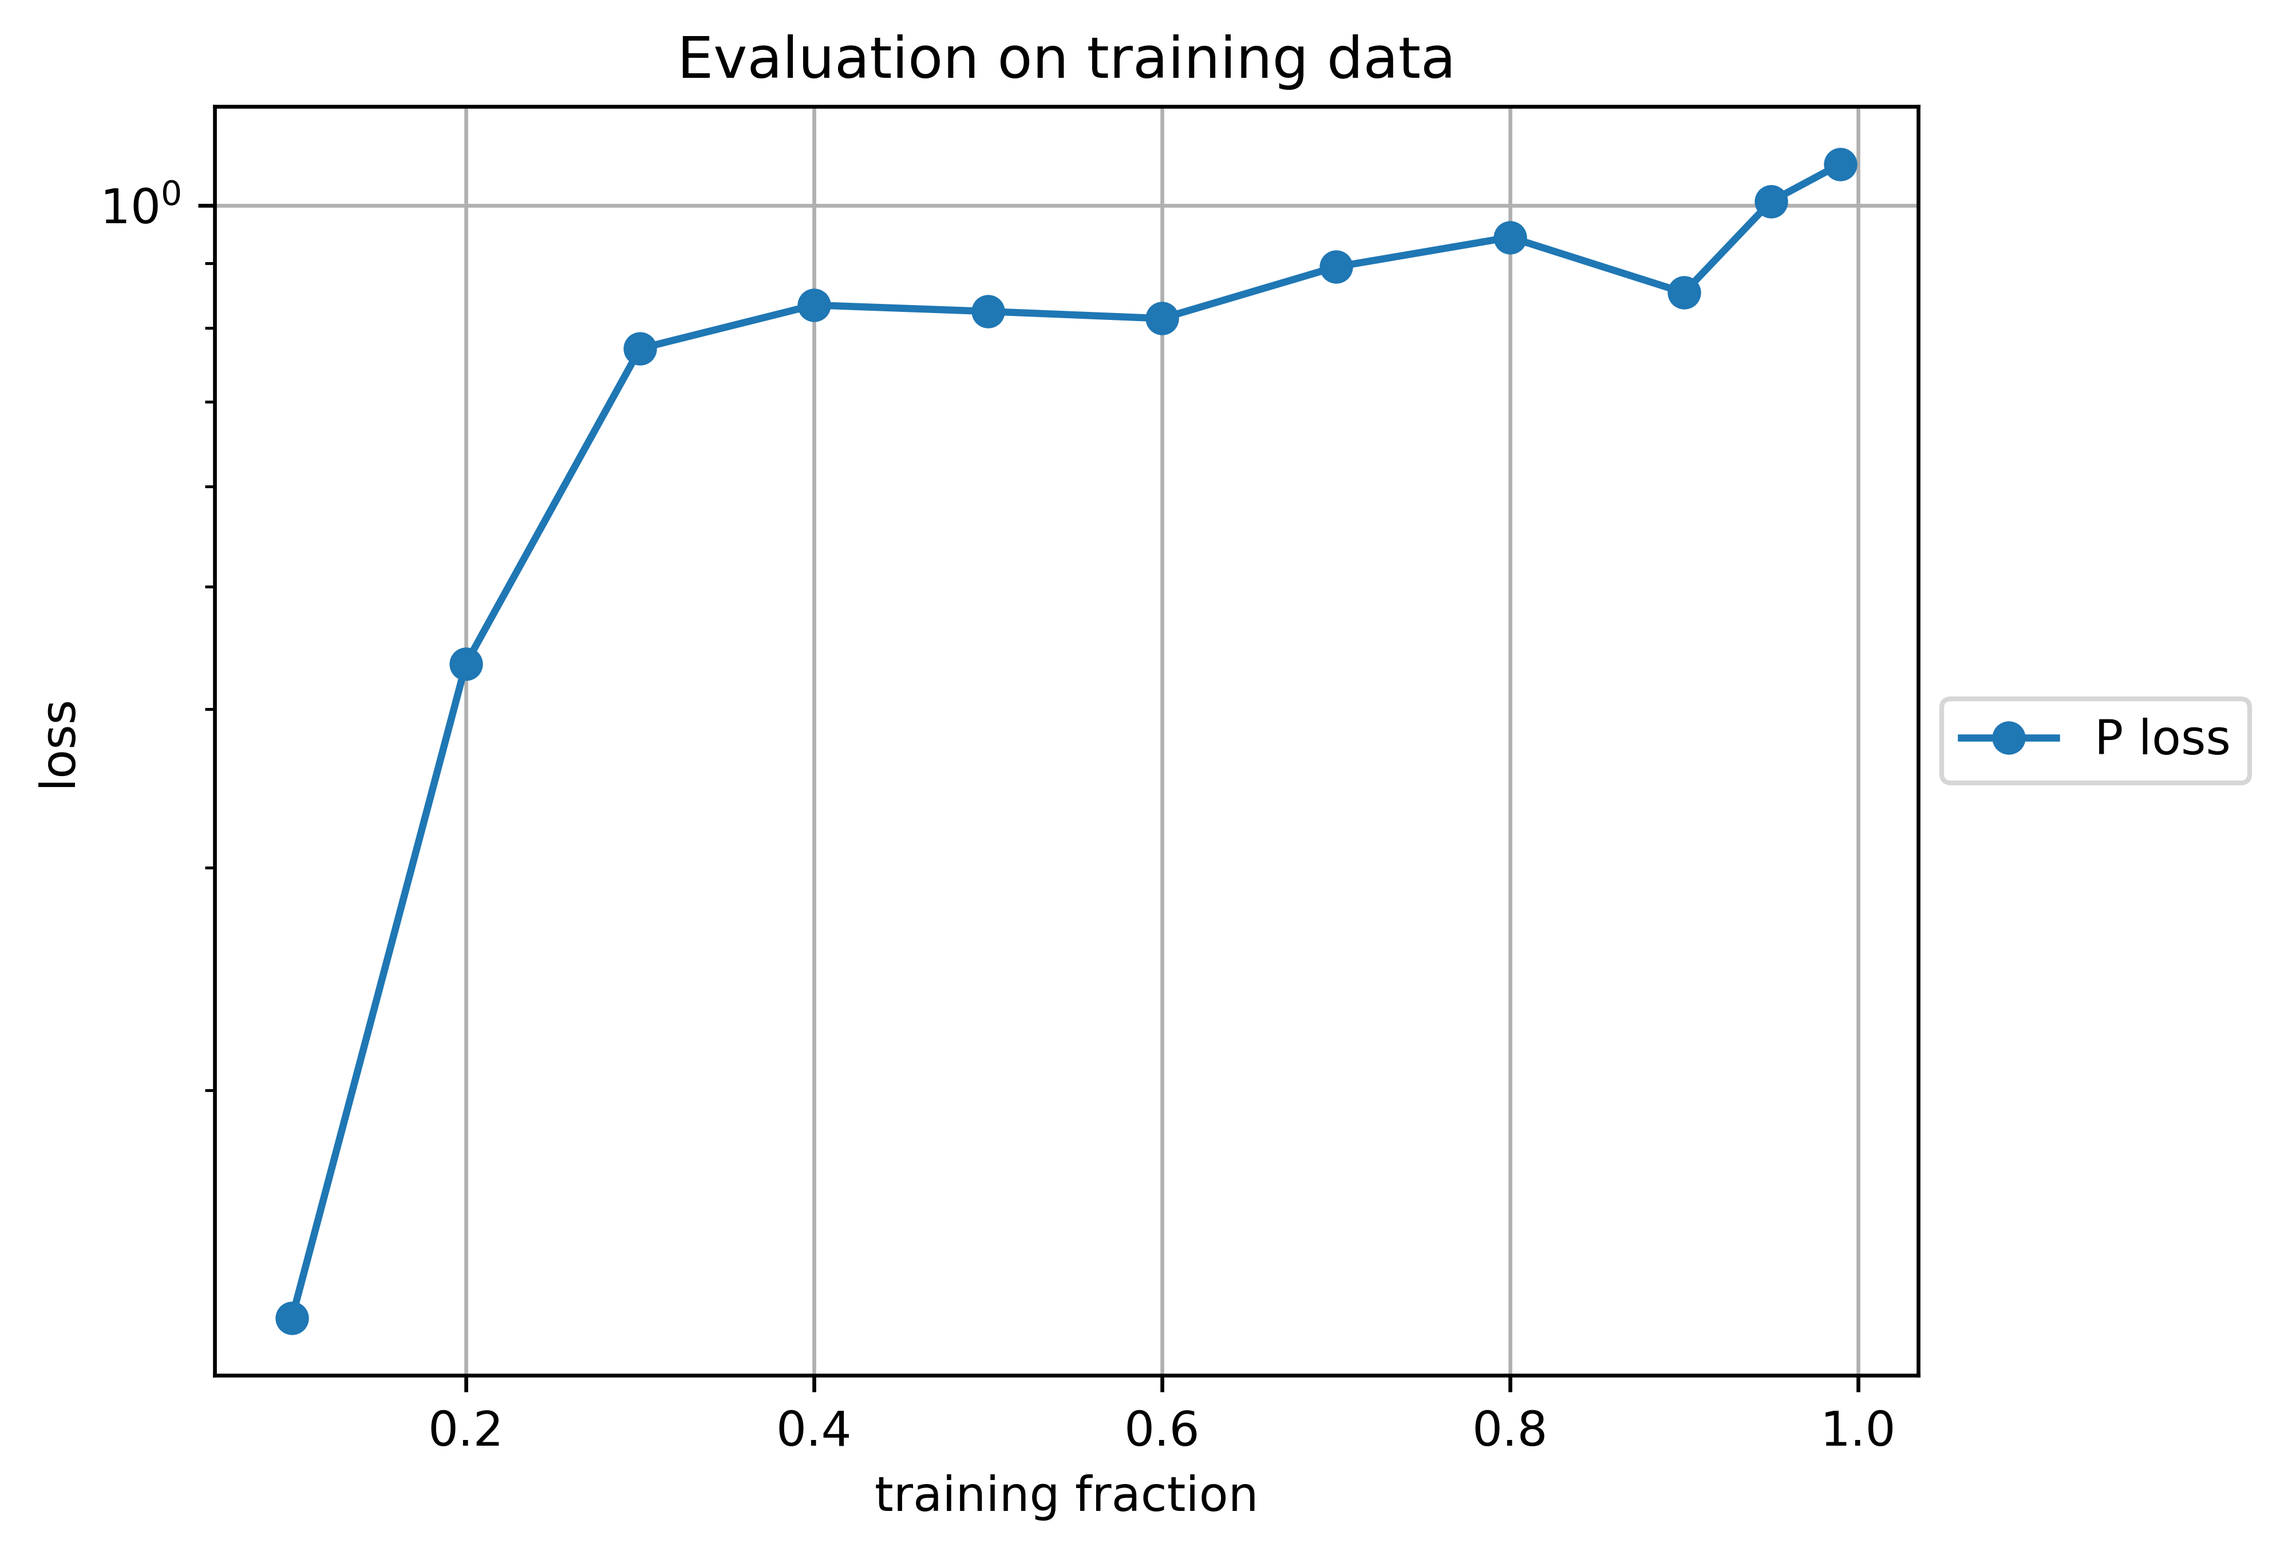
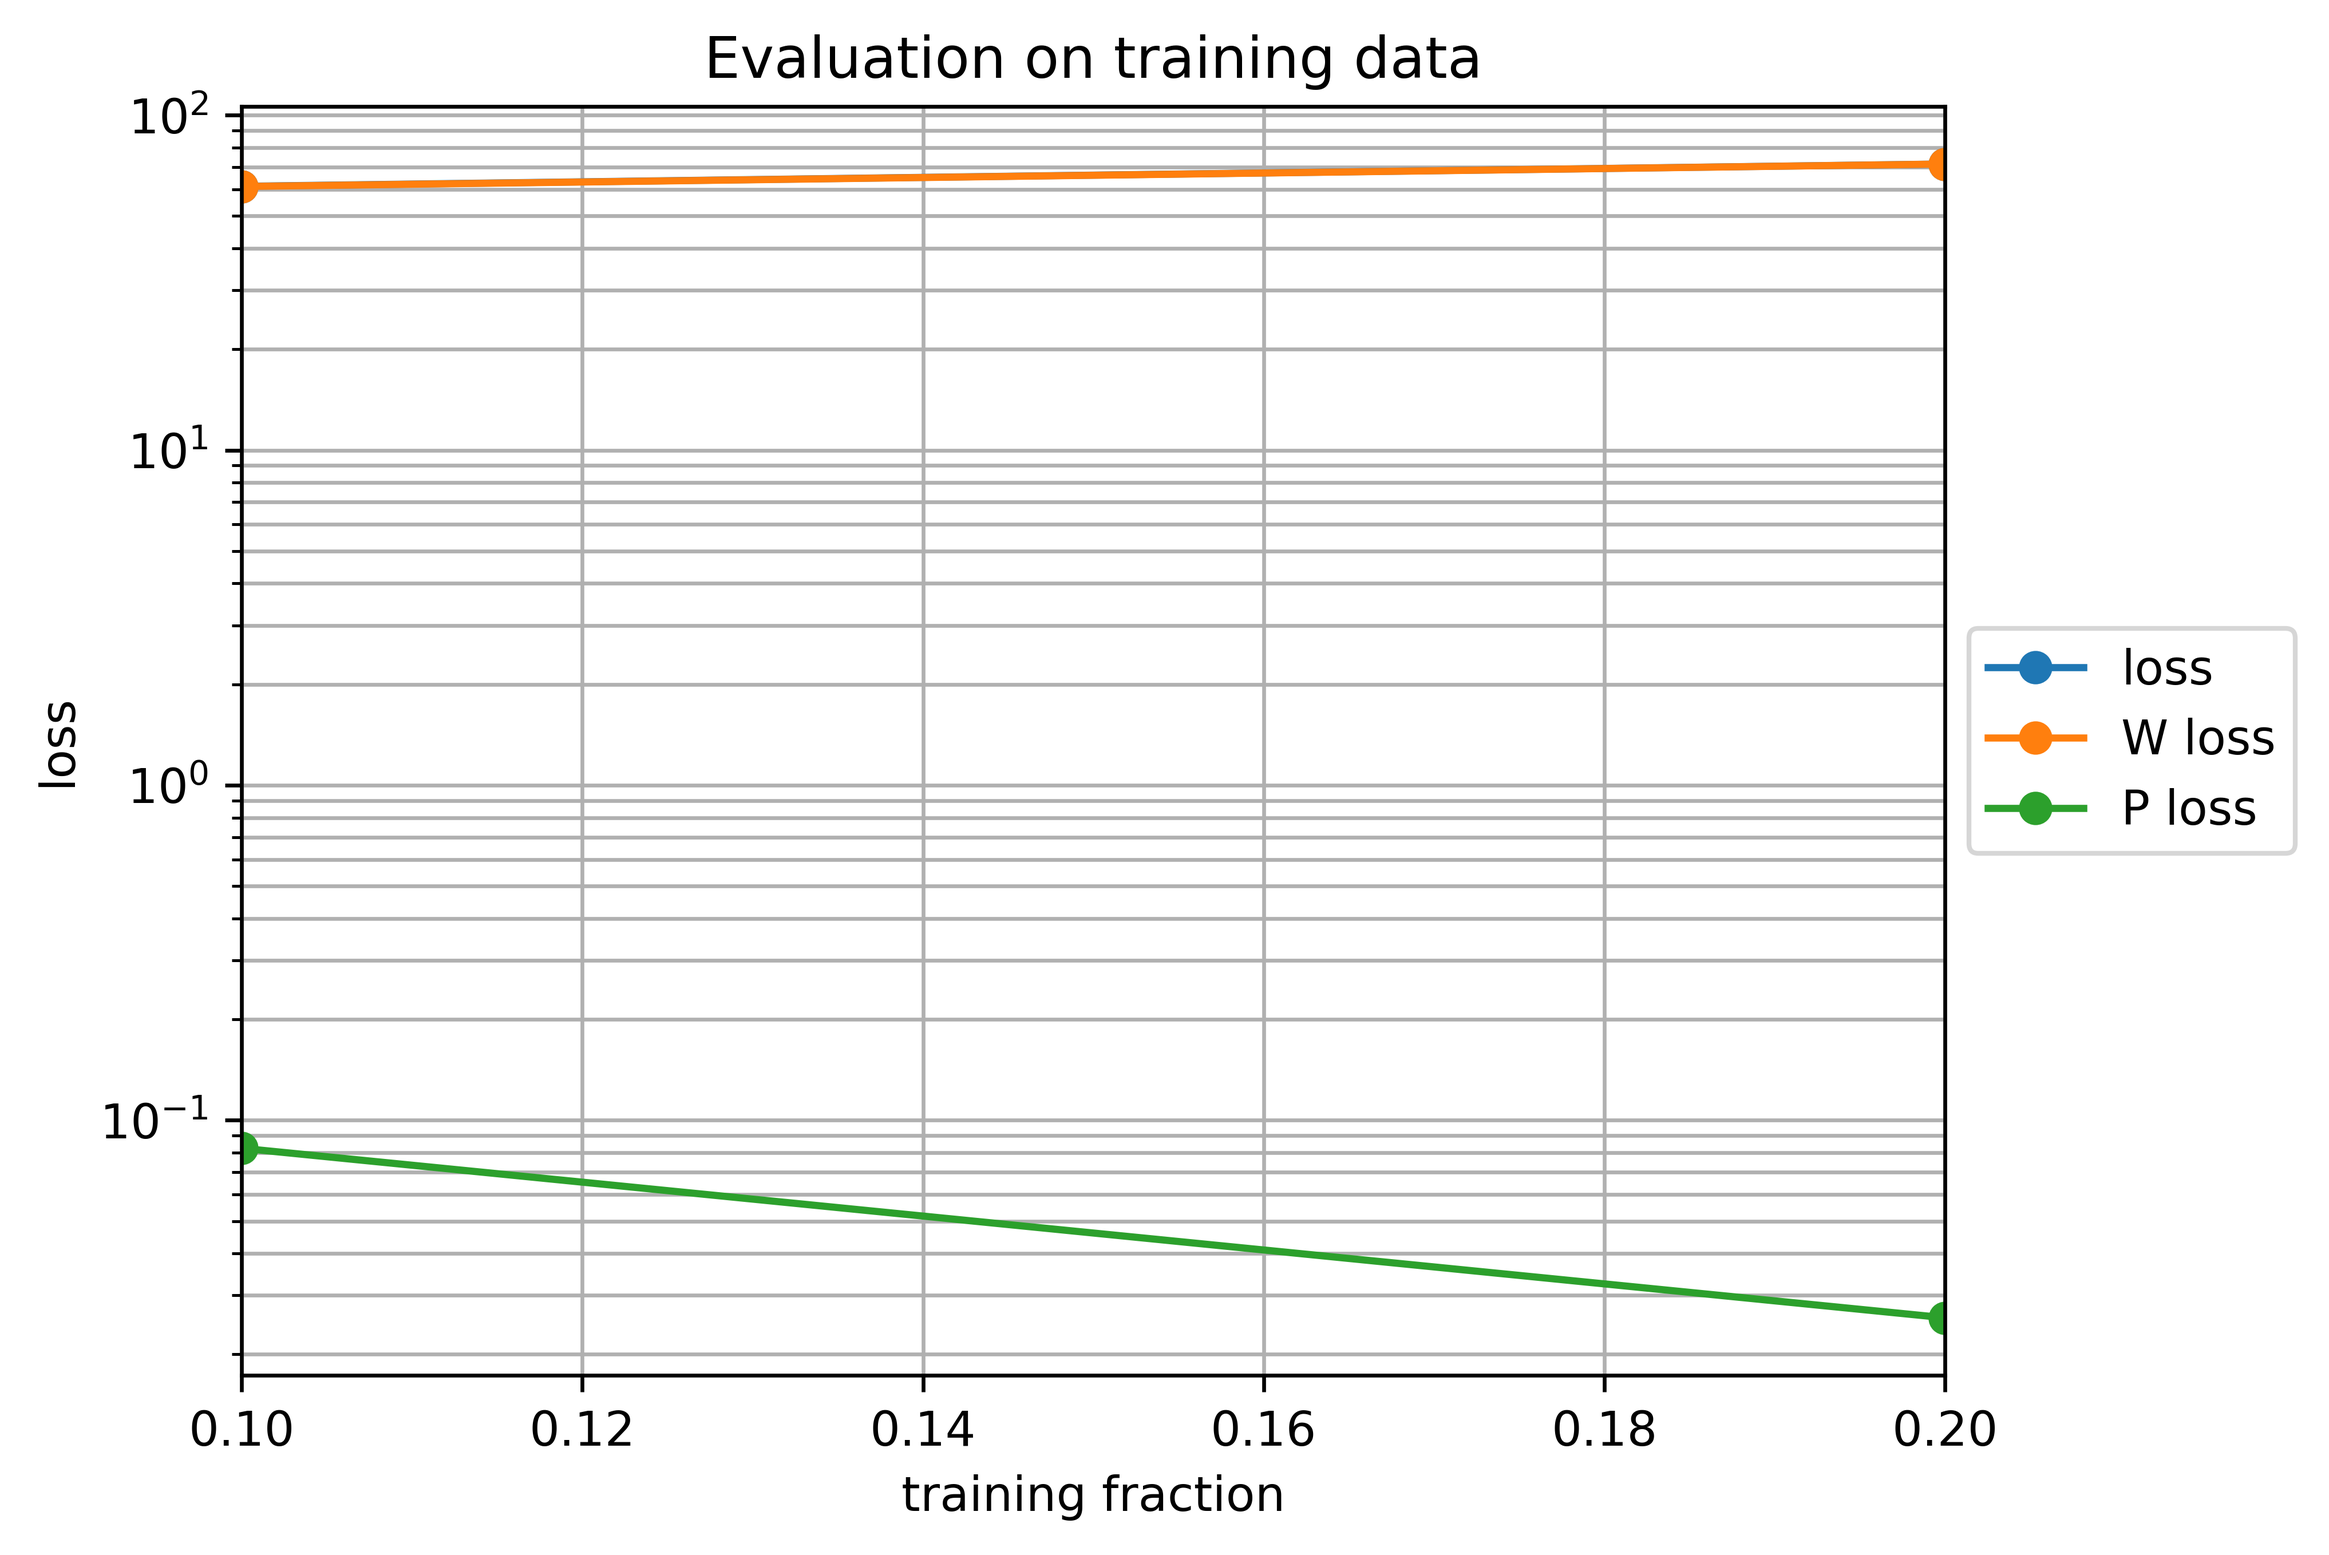
Switching between PhysicsAugmented and Naive by setting t_type
Plots and model selection are guided using if clauses

diff --git a/Task_02/02_hyperelasticity_I/main_concentric_sampling.py b/Task_02/02_hyperelasticity_I/main_concentric_sampling.py
@@ -33,12 +33,13 @@ Training
 
 
 FNUM = 100
-test_train_split = np.array([0.1,0.2,0.3,0.4,0.5,0.6,0.7,0.8,0.9,0.95,0.99])
-#test_train_split = np.array([0.1,0.2])
-JMAX = 5
+#test_train_split = np.array([0.1,0.2,0.3,0.4,0.5,0.6,0.7,0.8,0.9,0.95,0.99])
+test_train_split = np.array([0.1,0.2])
+JMAX = 2
+t_type = 'PhysicsAugmented' # 'Naive'
 
-loss_weights = [0, 1] # only used for physics augmented training
-epochs = 2500
+loss_weights = [1, 1] # only used for physics augmented training
+epochs = 300
 verbose = 0
 
 # initialization
@@ -50,7 +51,7 @@ for i, split in enumerate(test_train_split):
     train_losses_tmp = np.zeros([JMAX,3])
     test_losses_tmp = np.zeros([JMAX,3])
 
-    for j in range(JMAX): 
+    for j in range(JMAX):
         print(f'Model {i * JMAX + (j + 1)}/{test_train_split.size * JMAX}')
         # create training and test split
         fnum = tf.random.shuffle(np.arange(1,FNUM + 1))
@@ -60,10 +61,12 @@ for i, split in enumerate(test_train_split):
         train_paths = ld.generate_concentric_paths(ftrain)
         test_paths = ld.generate_concentric_paths(ftest)
 
-        # tmodel = training.PhysicsAugmented(paths=train_paths, loss_weights=loss_weights,
-        #             epochs=epochs,
-        #             verbose=verbose)
-        tmodel = training.Naive(paths=train_paths, epochs=epochs, verbose=verbose)
+        if t_type == 'PhysicsAugmented':
+            tmodel = training.PhysicsAugmented(paths=train_paths, loss_weights=loss_weights,
+                        epochs=epochs,
+                        verbose=verbose)
+        else:
+            tmodel = training.Naive(paths=train_paths, epochs=epochs, verbose=verbose)
 
         tmodel.preprocess()
         tmodel.calibrate()
@@ -71,7 +74,7 @@ for i, split in enumerate(test_train_split):
         # evaluate
         train_losses_tmp[j,:] = np.mean(tmodel.evaluate(train_paths), axis=0)
         test_losses_tmp[j,:] = np.mean(tmodel.evaluate(test_paths), axis=0)
-    
+
     mean_train_losses[i,:] = np.mean(train_losses_tmp, axis=0)
     mean_test_losses[i,:] = np.mean(test_losses_tmp, axis=0)
 
@@ -83,25 +86,34 @@ print('it took', t2 - t1, '(sec) to calibrate and evaluate all models')
 Plots
 
 '''
+
 fig = plt.figure(dpi=600)
-plt.semilogy(test_train_split,mean_train_losses[:,1] + mean_train_losses[:,2], marker='o', label='loss')
-plt.semilogy(test_train_split,mean_train_losses[:,1], marker='o', label='W loss')
-plt.semilogy(test_train_split,mean_train_losses[:,2], marker='o', label='P loss')
+if t_type == 'PhysicsAugmented':
+    plt.semilogy(test_train_split,mean_train_losses[:,1] + mean_train_losses[:,2], marker='o', label='loss')
+    plt.semilogy(test_train_split,mean_train_losses[:,1], marker='o', label='W loss')
+    plt.semilogy(test_train_split,mean_train_losses[:,2], marker='o', label='P loss')
+else:
+    plt.semilogy(test_train_split,mean_train_losses[:,1], marker='o', label='P loss')
 plt.title('Evaluation on training data')
 plt.xlabel('training fraction')
 plt.ylabel('loss')
-plt.grid()
+plt.xlim(np.min(test_train_split), np.max(test_train_split))
+plt.grid(True, which='both')
 plt.legend(loc='center left', bbox_to_anchor=(1, 0.5))
 plt.savefig('images/training_loss.png', dpi=fig.dpi, bbox_inches='tight')
 
 fig = plt.figure(dpi=600)
-plt.semilogy(test_train_split,mean_test_losses[:,1] + mean_test_losses[:,2], marker='o', label='loss')
-plt.semilogy(test_train_split,mean_test_losses[:,1], marker='o', label='W loss')
-plt.semilogy(test_train_split,mean_test_losses[:,2], marker='o', label='P loss')
+if t_type == 'Naive':
+    plt.semilogy(test_train_split,mean_test_losses[:,1] + mean_test_losses[:,2], marker='o', label='loss')
+    plt.semilogy(test_train_split,mean_test_losses[:,1], marker='o', label='W loss')
+    plt.semilogy(test_train_split,mean_test_losses[:,2], marker='o', label='P loss')
+else:
+    plt.semilogy(test_train_split,mean_test_losses[:,1], marker='o', label='P loss')
 plt.title('Evalutation on test data')
 plt.xlabel('training fraction')
 plt.ylabel('loss')
-plt.grid()
+plt.xlim(np.min(test_train_split), np.max(test_train_split))
+plt.grid(True, which='both')
 plt.legend(loc='center left', bbox_to_anchor=(1, 0.5))
 plt.savefig('images/test_loss.png', dpi=fig.dpi, bbox_inches='tight')
 

diff --git a/Task_02/02_hyperelasticity_I/main_physics_augmented.py b/Task_02/02_hyperelasticity_I/main_physics_augmented.py
@@ -33,7 +33,7 @@ import plots as pl
 Load model
 
 """
-lw = [1, 1]     # output_1 = function value, output_2 = gradient
+lw = [0, 1]     # output_1 = function value, output_2 = gradient
 model = lm.main(r_type='PhysicsAugmented', loss_weights=lw)
 model.summary()
 
@@ -44,19 +44,19 @@ Load calibration data
 """
 
 # select load cases for calibration
-# paths = [
-#     'data/calibration/biaxial.txt',
-#     'data/calibration/pure_shear.txt',
-#     'data/calibration/uniaxial.txt'
-#     ]
+paths = [
+    'data/calibration/biaxial.txt',
+    'data/calibration/pure_shear.txt',
+    'data/calibration/uniaxial.txt'
+    ]
 
 # paths = [
 #     'data/calibration/biaxial.txt'
 #     ]
 
-paths = [
-    'data/calibration/pure_shear.txt'
-    ]
+# paths = [
+#     'data/calibration/pure_shear.txt'
+#     ]
 
 # paths = [
 #     'data/calibration/uniaxial.txt'
@@ -154,9 +154,9 @@ for i, path in enumerate(paths):
     # shift reference value ys by normalization offset predicted value in
     # the oppositde direction to ensure reasonable
     # results from tensorflow evalutation function
-    # ys_eval = ys + ys_I[0,0]
-    ys_eval = ys
-    # ys_pred = ys_pred - ys_I[0,0]
+    ys_eval = ys + ys_I[0,0]
+    # ys_eval = ys
+    ys_pred = ys_pred - ys_I[0,0]
 
     # Evaluate the model on the test data using `evaluate`
     print(f'\nEvaluate on test data: {titles[i]}')

diff --git a/Task_02/02_hyperelasticity_I/models.py b/Task_02/02_hyperelasticity_I/models.py
@@ -164,7 +164,7 @@ class InvariantLayer(layers.Layer):
         I3 = tf.linalg.det(C)
         # catch error if a KerasTensor is passed
         try:
-            Cof_C = tf.constant(np.array([I3i * C_inv[i,:,:] for i,I3i in enumerate(I3)]))
+            Cof_C = tf.constant(np.array([I3i * C_inv[i,:,:] for i, I3i in enumerate(I3)]))
         except:
             Cof_C = C_inv
         I5 = tf.linalg.trace(Cof_C @ G_ti)

diff --git a/Task_02/02_hyperelasticity_I/data.py b/Task_02/02_hyperelasticity_I/data.py
@@ -142,7 +142,7 @@ def W(F):
 def compute_potential(I1, J, I4, I5):
     ''' Compute strain energy density from invariants '''
     W = 8 * I1 + 10 * J**2 - 56 * tf.math.log(J) \
-        + 0.25 * (I4 ** 2 + I5 ** 2) - 44
+        + 0.2 * (I4 ** 2 + I5 ** 2) - 44
     return W
 
 
